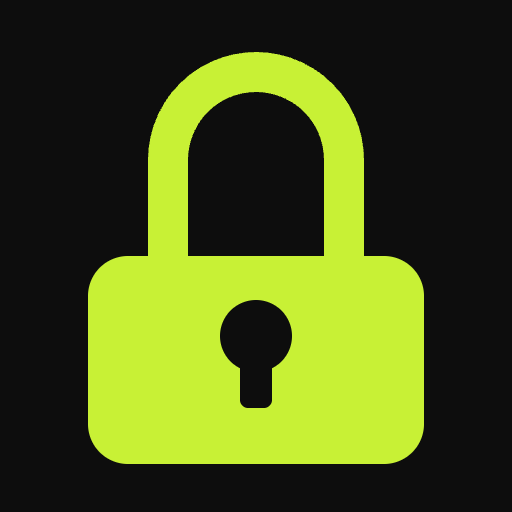
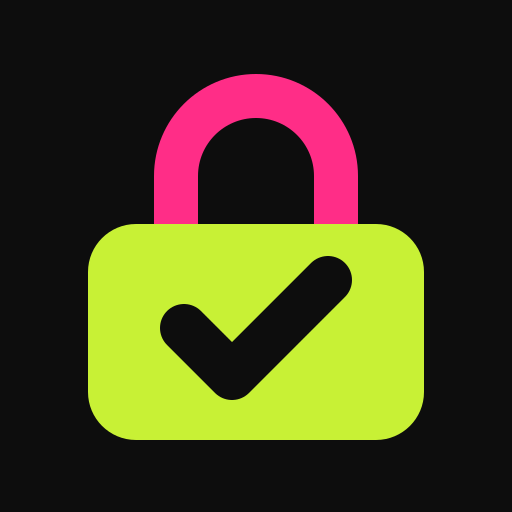
Give the app a mark that is about picking, not security
The icon was a stock padlock: a password manager's glyph, saying nothing
about football or about calling a result. It is now a padlock with a tick
where the keyhole was — pink shackle, lime body — which keeps the name
honest and puts the point of the game in the shape.

Two things fall out of drawing it properly:

The eight icon files come from one definition, scripts/build-icons.mjs,
rather than being eight files somebody edits one at a time. Output stays
committed; the script is not part of the build.

The notification badge was the colour icon, and Android keeps only a
badge's alpha channel — so every pixel of the padlock was opaque, the
keyhole filled in, and the badge was a featureless blob. badge-96.png is
drawn for that job: one colour, the tick a real hole.

The header follows the icon. "Picks" is the name and "lock your" the
instruction above it, with the mark beside them, so the thing on the home
screen and the thing at the top of the page are recognisably one brand —
and the lockup is narrower than the three flat words it replaces. Mark is
its own component rather than LockIcon, which stays the currentColor
glyph on Lock in buttons: a logo that changes colour with its
surroundings is not a logo.

Changed region(s): [[0.1562, 0.0938, 0.8438, 0.8125], [0.1562, 0.7812, 0.8438, 0.9062]]

diff --git a/src/app/(app)/layout.tsx b/src/app/(app)/layout.tsx
@@ -2,6 +2,7 @@ import Link from 'next/link';
 import { redirect } from 'next/navigation';
 
 import { MobileNav } from '@/components/MobileNav';
+import { Mark } from '@/components/Mark';
 import { NavLinks } from '@/components/NavLinks';
 import { LeagueSwitcher } from '@/components/LeagueSwitcher';
 import { ScrollMemory } from '@/components/ScrollMemory';
@@ -71,9 +72,23 @@ export default async function AppLayout({
         style={{ paddingTop: 'env(safe-area-inset-top)' }}
       >
         <div className="mx-auto flex w-full max-w-5xl items-center gap-4 px-6 py-3">
-          <Link href="/dashboard" className="shrink-0">
-            <span className="font-display text-lg font-extrabold tracking-tight">
-              Lock Your <span className="text-lime-dark">Picks</span>
+          {/* The mark earns its keep twice: the thing on the home screen
+              is the thing at the top of the page. "Picks" is the name and
+              "lock your" the instruction above it, which gives the lockup
+              a shape the three flat words never had — and takes less
+              width, which this header can always use. */}
+          <Link
+            href="/dashboard"
+            className="flex shrink-0 items-center gap-2"
+          >
+            <Mark className="h-7 w-7" />
+            <span className="flex flex-col leading-none">
+              <span className="font-display text-[9px] font-bold tracking-[0.2em] text-grey-500 uppercase">
+                Lock Your
+              </span>
+              <span className="font-display mt-0.5 text-xl font-extrabold tracking-tight">
+                Picks
+              </span>
             </span>
           </Link>
 

diff --git a/src/components/Mark.tsx b/src/components/Mark.tsx
@@ -1,0 +1,42 @@
+/**
+ * The brand mark: a padlock with a tick where the keyhole was.
+ *
+ * Not `LockIcon`, which is the functional glyph on Lock in buttons and
+ * takes `currentColor`. This one is fixed lime, pink and ink, because a
+ * logo that changes colour with its surroundings is not a logo. Those
+ * three are also why it needs no plate behind it: the tick is dark on
+ * the lime body rather than on the page, so it reads the same on a white
+ * header and a black one.
+ *
+ * The same three paths are in `scripts/build-icons.js`, which cuts the
+ * favicon, the home-screen icons and the notification badge. Change one
+ * and run that, or the thing on the home screen stops being the thing in
+ * the header.
+ */
+export function Mark({ className = 'h-7 w-7' }: { className?: string }) {
+  return (
+    <svg
+      viewBox="0 0 64 64"
+      className={className}
+      role="img"
+      aria-label="Lock Your Picks"
+    >
+      <path
+        d="M22 30 V22 a10 10 0 0 1 20 0 V30"
+        fill="none"
+        stroke="#ff2d87"
+        strokeWidth="5.5"
+        strokeLinecap="round"
+      />
+      <rect x="11" y="28" width="42" height="27" rx="6" fill="#c8f135" />
+      <path
+        d="M23 41 l6 6 l12 -12"
+        fill="none"
+        stroke="#0d0d0d"
+        strokeWidth="6"
+        strokeLinecap="round"
+        strokeLinejoin="round"
+      />
+    </svg>
+  );
+}

diff --git a/src/app/auth/layout.tsx b/src/app/auth/layout.tsx
@@ -1,5 +1,7 @@
 import Link from 'next/link';
 
+import { Mark } from '@/components/Mark';
+
 export default function AuthLayout({
   children,
 }: {
@@ -8,8 +10,19 @@ export default function AuthLayout({
   return (
     <div className="flex flex-1 flex-col items-center justify-center px-6 py-14">
       <div className="w-full max-w-sm">
-        <Link href="/" className="mb-8 block text-center">
-          <span className="font-display text-xl font-extrabold tracking-tight">Lock Your Picks</span>
+        <Link
+          href="/"
+          className="mb-8 flex items-center justify-center gap-2.5"
+        >
+          <Mark className="h-9 w-9" />
+          <span className="flex flex-col text-left leading-none">
+            <span className="font-display text-[10px] font-bold tracking-[0.2em] text-grey-500 uppercase">
+              Lock Your
+            </span>
+            <span className="font-display mt-0.5 text-2xl font-extrabold tracking-tight">
+              Picks
+            </span>
+          </span>
         </Link>
         <div className="card p-6">{children}</div>
       </div>

diff --git a/public/sw.js b/public/sw.js
@@ -108,7 +108,10 @@ self.addEventListener('push', (event) => {
   const options = {
     body: payload.body || "It's your turn to pick.",
     icon: '/icon-192.png',
-    badge: '/icon-192.png',
+    // Android keeps only the alpha channel of a badge, so the colour
+    // icon came out as a featureless white blob with its tick filled
+    // in. badge-96 is drawn for that: one colour, the tick a real hole.
+    badge: '/badge-96.png',
     tag: payload.tag || 'turn',
     renotify: true,
     data: { url: payload.url || '/draft' },
